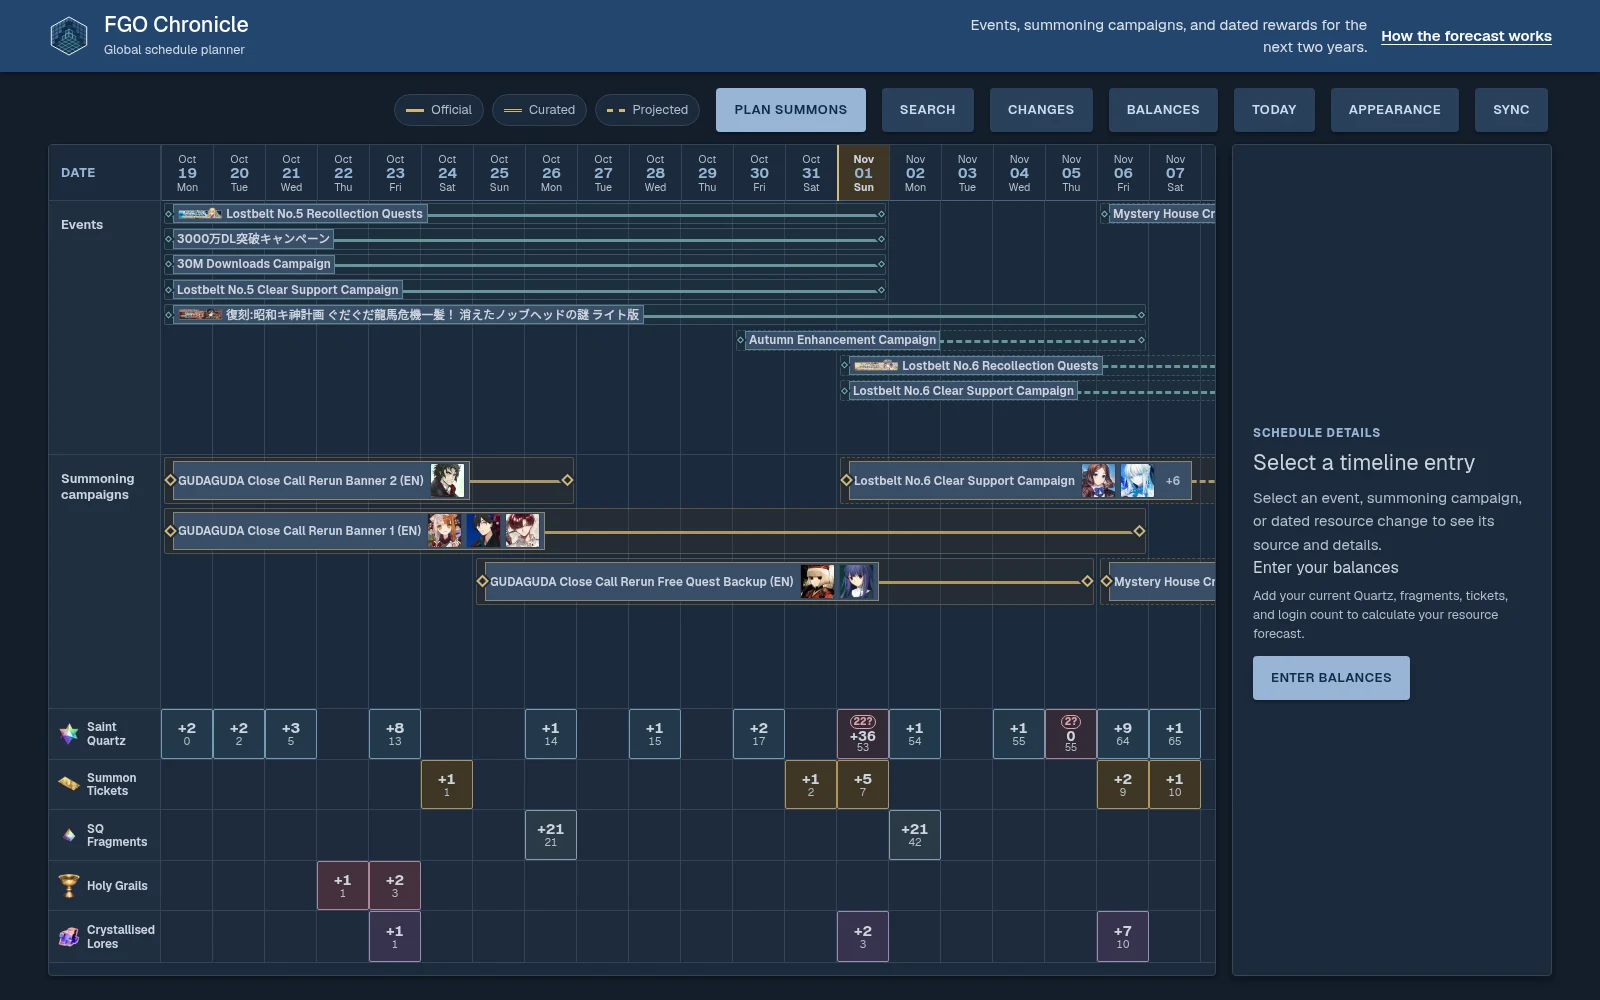
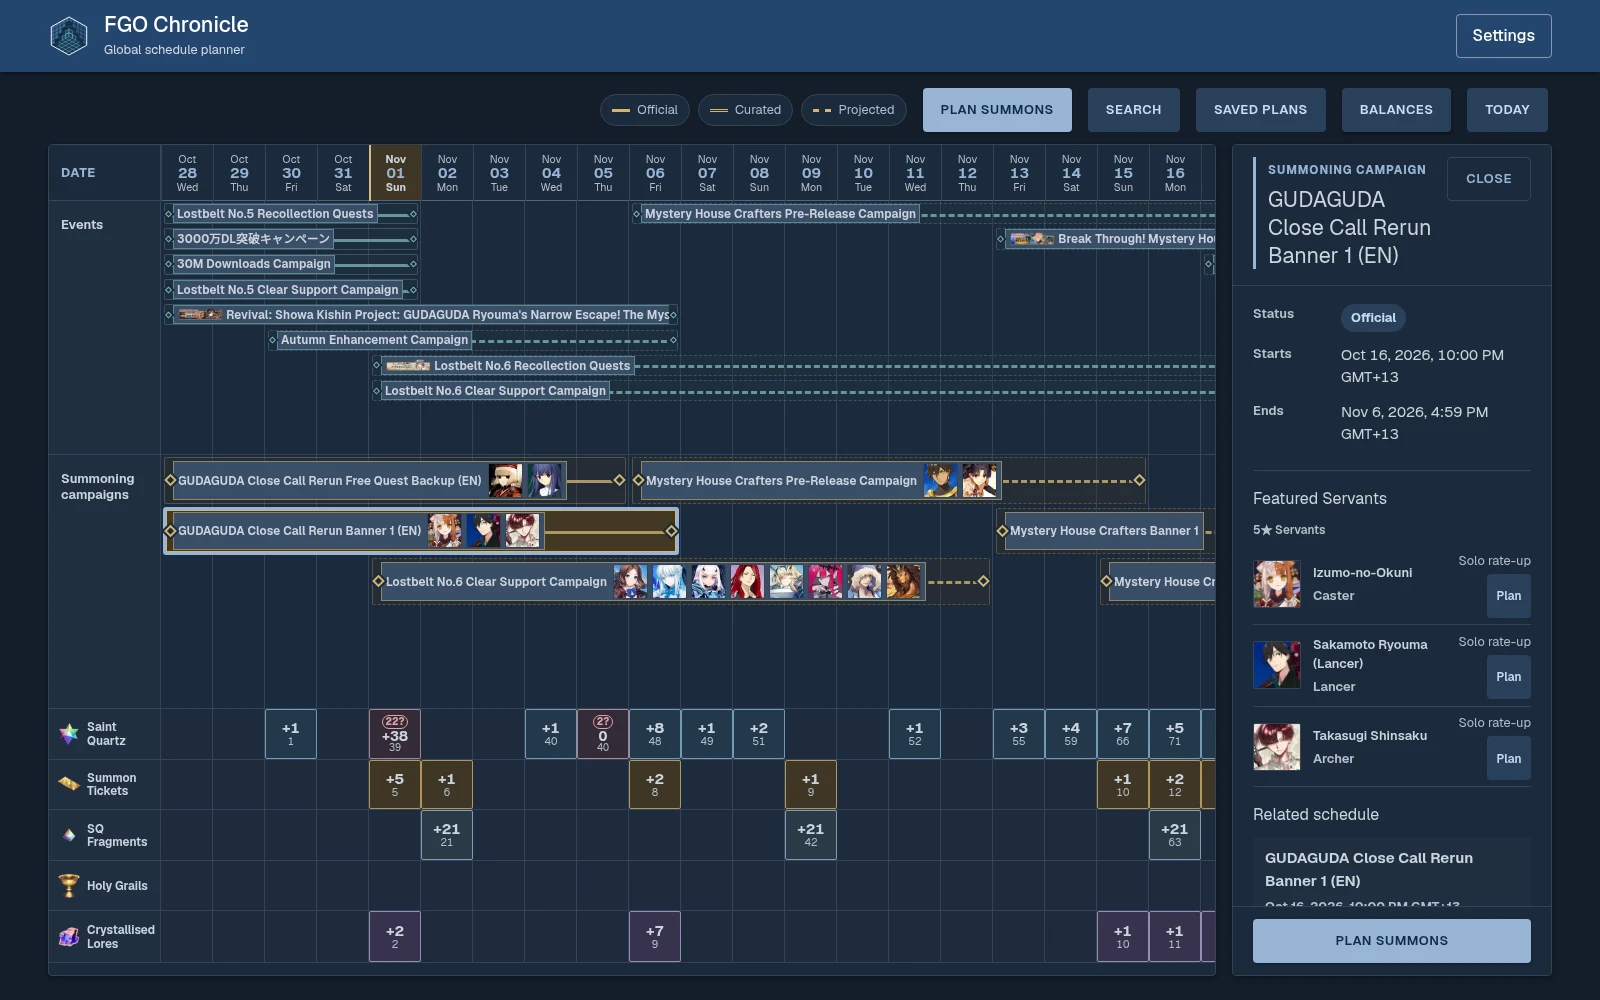
docs: refresh the live timeline screenshot

diff --git a/README.md b/README.md
@@ -6,7 +6,7 @@ plan summons, and see how each plan affects your resources for later campaigns.
 [Live app](https://fgo-chronicle.vercel.app) ·
 [How the forecast works](https://fgo-chronicle.vercel.app/methodology)
 
-![FGO Chronicle in dark mode, showing event and summon timelines, featured servant portraits, and daily resource forecasts.](docs/images/timeline.webp)
+![FGO Chronicle in dark mode, showing the current timeline, daily resource forecasts, and a selected summoning campaign with featured servants in the sidebar.](docs/images/timeline.webp)
 
 ## Features
 
